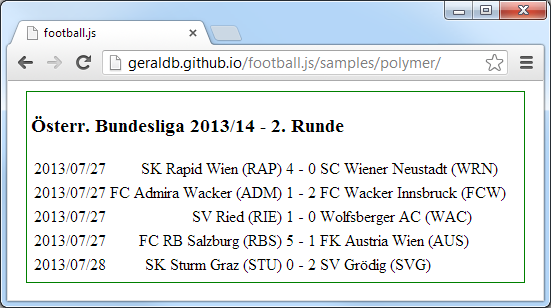
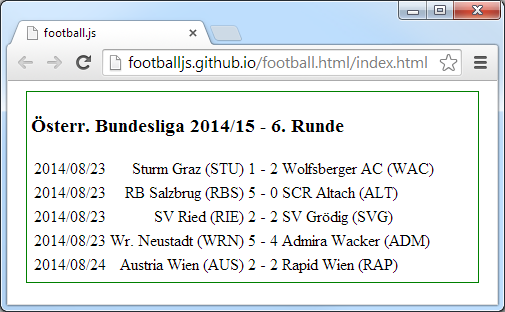
up talk

Changed region(s): [[0.0, 0.0584, 1.0, 0.9935], [0.7723, 0.0, 1.0, 0.0877]]

diff --git a/webcomponents2.md b/webcomponents2.md
@@ -480,37 +480,40 @@ More info @
 
 `beer-of-the-day.html`
 
-<!-- check: use noscript  e.g
-       <polymer-element name='beer-of-the-day' noscript>
-       - use if you don't need any further JavaScript logic
-          e.g lifecycle callbacks, mixins, etc.
-  -->
-
 ~~~
 <polymer-element name='beer-of-the-day'>
 
   <style>
-    ## add background-image ???  use :host ?
-     p { background-color: yellow; }  ?? use/style for overlay image - text
+    p { background-color: yellow; }
   </style>
 
   <template>
     <p>I'm a fan of <b>Ottakringer Wiener Original</b>
-      and this is my Shadow DOM.
+        and this is my Shadow DOM.
     </p>
   </template>
 
   <script>
     <!-- no JavaScript needed for now;
-         sorry ;-)
+          sorry ;-)
       -->
   </script>
 
 </polymer-element>
 ~~~
 
-[ add pic here ]
+<!-- check: use noscript  e.g
+       <polymer-element name='beer-of-the-day' noscript>
+       - use if you don't need any further JavaScript logic
+          e.g lifecycle callbacks, mixins, etc.
+  -->
 
+<!--
+[ add pic here ]
+ ## add background-image ???  use :host ?
+  p { background-color: yellow; }  ?? use/style for overlay image - text
+
+  -->
 
 # Example 1 - `<beer-of-the-day>` Tag Usage
 
@@ -534,12 +537,14 @@ More info @
 </html>
 ~~~
 
+<!--
+  todo
 [add pic here - dom before show shadow dom]
 
 [add pic here - turn on shadow dom - setting]
 
 [add pic here - dom after show shadow dom]
-
+-->
 
 
 # Example 2 - `<football-matchday>` Österr. Bundesliga Matchday Widget
@@ -575,17 +580,19 @@ The new way:
 
 ### Matchday Data as JavaScript Objects
 
-[fix: try w/o data e.g. event.title ?? ]
+<!--
+ fix: try w/o data e.g. event.title ??
+-->
 
 ~~~
 {
   "event":{"key":"at.2014/15","title":"Österr. Bundesliga 2014/15"},
-  "round":{"pos":2,"title":"2. Runde","start_at":"2013/07/27","end_at":"2013/07/28"},
-  "games":[{"team1_title":"SK Rapid Wien","team1_code":"RAP","team2_title":"SC Wiener Neustadt","team2_code":"WRN","play_at":"2013/07/27","score1":4,"score2":0},
-           {"team1_title":"FC Admira Wacker","team1_code":"ADM","team2_title":"FC Wacker Innsbruck","team2_code":"FCW","play_at":"2013/07/27","score1":1,"score2":2},
-           {"team1_title":"SV Ried","team1_code":"RIE","team2_title":"Wolfsberger AC","team2_code":"WAC","play_at":"2013/07/27","score1":1,"score2":0},
-           {"team1_title":"FC RB Salzburg","team1_code":"RBS","team2_title":"FK Austria Wien","team2_code":"AUS","play_at":"2013/07/27","score1":5,"score2":1},
-           {"team1_title":"SK Sturm Graz","team1_code":"STU","team2_title":"SV Grödig","team2_code":"SVG","play_at":"2013/07/28","score1":0,"score2":2}]
+  "round":{"pos":6,"title":"6. Runde","start_at":"2014/08/23","end_at":"2014/08/24"},
+  "games":[{"team1_title":"Sturm Graz","team1_code":"STU","team2_title":"Wolfsberger AC","team2_code":"WAC","play_at":"2014/08/23","score1":1,"score2":2},
+           {"team1_title":"RB Salzbrug","team1_code":"RBS","team2_title":"SCR Altach","team2_code":"ALT","play_at":"2014/08/23","score1":5,"score2":0},
+           {"team1_title":"SV Ried","team1_code":"RIE","team2_title":"SV Grödig","team2_code":"SVG","play_at":"2014/08/23","score1":2,"score2":2},
+           {"team1_title":"Wr. Neustadt","team1_code":"WRN","team2_title":"Admira Wacker","team2_code":"ADM","play_at":"2014/08/23","score1":5,"score2":4},
+           {"team1_title":"Austria Wien","team1_code":"AUS","team2_title":"Rapid Wien","team2_code":"RAP","play_at":"2014/08/24","score1":2,"score2":2}]
 }
 ~~~
 
@@ -600,7 +607,7 @@ The new way:
 ~~~
 
 
-# Example 2 - `<football-js>` Widget - Nested Templates
+# Example 2 - `<football-matchday>` Widget - Nested Templates
 
 ~~~
 <template>
@@ -633,10 +640,10 @@ The new way:
 
 
 
-# Example 2 - `<football-js>` - All Together Now
+# Example 2 - `<football-matchday>` - All Together Now
 
 ~~~
-<polymer-element name='football-js' attributes='event'>
+<polymer-element name='football-matchday' attributes='event'>
  
   <template>
    <style>
@@ -676,16 +683,16 @@ The new way:
  </template>
   
   <script>
-    Polymer('football-js', {
-      // event: 'euro.2012',
+    Polymer('football-matchday', {
+      // event: 'at.2014/15',
       data: {
-        "event":{"key":"at.2013/14","title":"\u00d6sterr. Bundesliga 2013/14"},
-        "round":{"pos":2,"title":"2. Runde","start_at":"2013/07/27","end_at":"2013/07/28"},
-        "games":[{"team1_key":"rapid","team1_title":"SK Rapid Wien","team1_code":"RAP","team2_key":"wrneustadt","team2_title":"SC Wiener Neustadt","team2_code":"WRN","play_at":"2013/07/27","score1":4,"score2":0,"score1ot":null,"score2ot":null,"score1p":null,"score2p":null},
-                 {"team1_key":"admira","team1_title":"FC Admira Wacker","team1_code":"ADM","team2_key":"innsbruck","team2_title":"FC Wacker Innsbruck","team2_code":"FCW","play_at":"2013/07/27","score1":1,"score2":2,"score1ot":null,"score2ot":null,"score1p":null,"score2p":null},
-                 {"team1_key":"ried","team1_title":"SV Ried","team1_code":"RIE","team2_key":"wac","team2_title":"Wolfsberger AC","team2_code":"WAC","play_at":"2013/07/27","score1":1,"score2":0,"score1ot":null,"score2ot":null,"score1p":null,"score2p":null},
-                 {"team1_key":"salzburg","team1_title":"FC RB Salzburg","team1_code":"RBS","team2_key":"austria","team2_title":"FK Austria Wien","team2_code":"AUS","play_at":"2013/07/27","score1":5,"score2":1,"score1ot":null,"score2ot":null,"score1p":null,"score2p":null},
-                 {"team1_key":"sturm","team1_title":"SK Sturm Graz","team1_code":"STU","team2_key":"groedig","team2_title":"SV Gr\u00f6dig","team2_code":"SVG","play_at":"2013/07/28","score1":0,"score2":2,"score1ot":null,"score2ot":null,"score1p":null,"score2p":null}]
+       "event":{"key":"at.2014/15","title":"Österr. Bundesliga 2014/15"},
+       "round":{"pos":6,"title":"6. Runde","start_at":"2014/08/23","end_at":"2014/08/24"},
+       "games":[{"team1_title":"Sturm Graz","team1_code":"STU","team2_title":"Wolfsberger AC","team2_code":"WAC","play_at":"2014/08/23","score1":1,"score2":2},
+                {"team1_title":"RB Salzbrug","team1_code":"RBS","team2_title":"SCR Altach","team2_code":"ALT","play_at":"2014/08/23","score1":5,"score2":0},
+                {"team1_title":"SV Ried","team1_code":"RIE","team2_title":"SV Grödig","team2_code":"SVG","play_at":"2014/08/23","score1":2,"score2":2},
+                {"team1_title":"Wr. Neustadt","team1_code":"WRN","team2_title":"Admira Wacker","team2_code":"ADM","play_at":"2014/08/23","score1":5,"score2":4},
+                {"team1_title":"Austria Wien","team1_code":"AUS","team2_title":"Rapid Wien","team2_code":"RAP","play_at":"2014/08/24","score1":2,"score2":2}]
        } 
     });
   </script>
@@ -693,7 +700,7 @@ The new way:
 ~~~
 
 
-# Example 2 - `<football-js>` - Usage
+# Example 2 - `<football-matchday>` - Usage
 
 ~~~
 <!DOCTYPE html>
@@ -702,10 +709,10 @@ The new way:
     <meta charset='utf-8'>
     <title>football.js</title>
     <script src='js/libs/polymer.min.js'></script>
-    <link rel='import' href='football-js.html'>
+    <link rel='import' href='football-matchday.html'>
   </head>
   <body>
-    <football-js event='at.2013/14'></football-js>
+    <football-matchday event='at.2014/15'></football-matchday>
   </body>
 </html>
 ~~~
